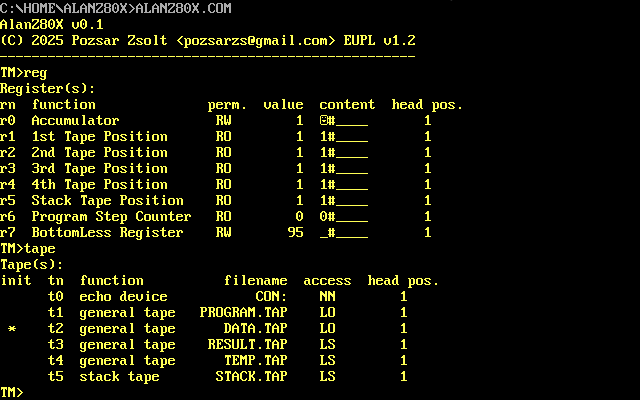
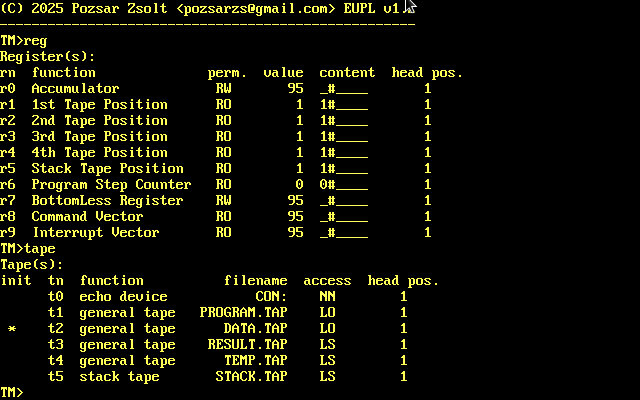
250916

diff --git a/README.md b/README.md
@@ -54,8 +54,8 @@ Copyright (C) 2025 Pozsár Zsolt <pozsarzs@gmail.com>
 | ~ extras            |breakpoint, tracking                                 |
 | ~ example programs  |1                                                    |
 |state machine        |                                                     | 
-| ~ commands          |number of symbols - 2                                |
-| ~ interrupts        |number of symbols - 2                                |
+| ~ commands          |number of symbols - 3                                |
+| ~ interrupts        |number of symbols - 3                                |
 | ~ registers         |1 general                                            |
 |                     |8 status                                             |
 |                     |1 special ('bottomless')                             |
@@ -72,8 +72,11 @@ Copyright (C) 2025 Pozsár Zsolt <pozsarzs@gmail.com>
 Startup screen  
 ![CLI-1](startup.png)
 
-Example #1  
+Number Shift #1  
 ![CLI-2](example1.png)
+
+Number Shift #2  
+![CLI-2](example2.png)
 
 
 ## The mathematical model of the machine
@@ -261,10 +264,11 @@ This file type is used to load the Turing machine's (base) program, define initi
 
 Note:  
 - This file type has limited use with the previous version of the Turing machine, the table provides guidance.
-- If the first and second symbols specified in the CONF section is not '_#', then they will be inserted.
+- If the starting symbols specified in the CONF section is not '_#@', then they will be inserted.
 - The default value of the INIT option in TAPE section is 2 (tape t<sub>2</sub>).
-- The 9-tuples must be specified in the following form:
+- The line length of the t36 file is maximum 1024 characters.
 - Tape access modes: LO/LS/SO/NN Load only/Load and save/Save only/None.
+- The 9-tuples must be specified in the following form:
 
  `ST000 R7_RST2000 ...`, where the:  
 
